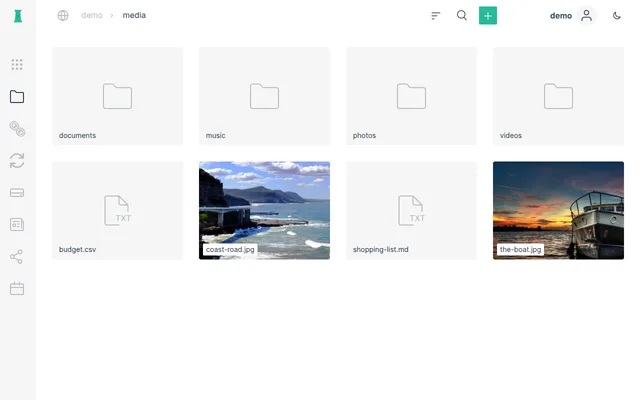
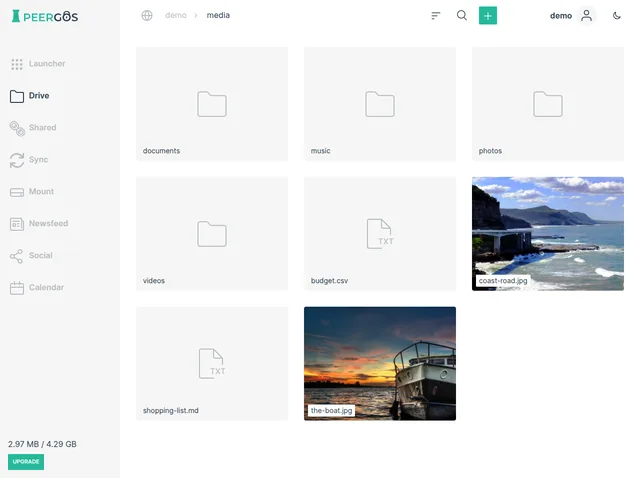
drive iamgbe

diff --git a/index.html b/index.html
@@ -281,7 +281,7 @@
       <button class="tour-tab" data-shot="/theme/img/tour/social-feed.jpg" data-srcset="/theme/img/tour/social-feed-640.webp 640w, /theme/img/tour/social-feed.webp 1200w" data-caption="A feed with no advertisers in it">Social</button>
     </div>
     <div class="shot-frame">
-      <img id="tour-shot" src="/theme/img/tour/drive.jpg" srcset="/theme/img/tour/drive-640.webp 640w, /theme/img/tour/drive.webp 1280w" sizes="(max-width: 948px) calc(100vw - 48px), 900px" width="1280" height="800" loading="lazy" alt=""/>
+      <img id="tour-shot" src="/theme/img/tour/drive.jpg" srcset="/theme/img/tour/drive-640.webp 640w, /theme/img/tour/drive.webp 1280w" sizes="(max-width: 948px) calc(100vw - 48px), 900px" width="1280" height="957" loading="lazy" alt=""/>
     </div>
     <p class="tour-caption" id="tour-caption">The drive itself, on any device you log in from</p>
   </div>
